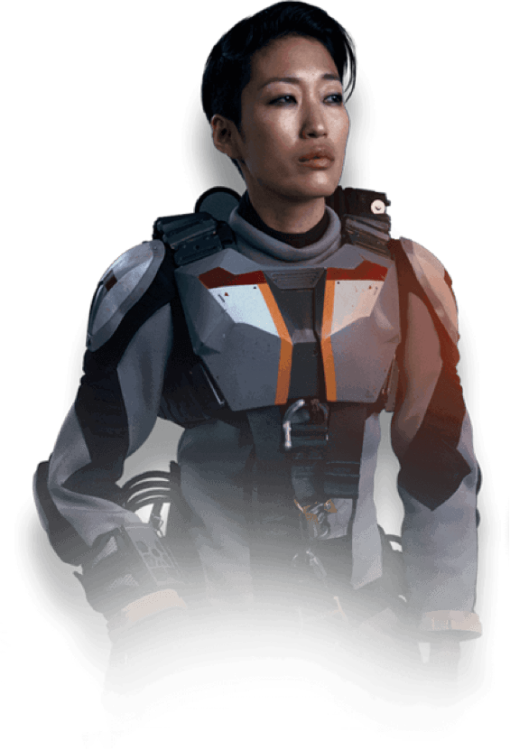
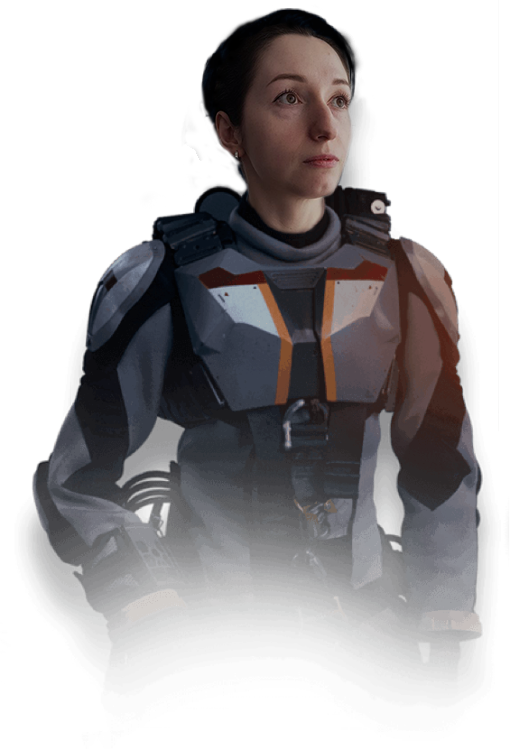
Fix fideo mobile view

diff --git a/src/components/PersonInfo/index.js b/src/components/PersonInfo/index.js
@@ -4,7 +4,7 @@ import { Link } from 'react-router-dom';
 import { team } from '../../team';
 // import RomanInfo from './RomanInfo';
 import styles from './index.module.scss';
-import video from '../../assets/video/alex.mp4'
+import video from '../../assets/video/alex.mp4';
 
 function PersonInfo() {
     const { params } = useRouteMatch();
@@ -12,6 +12,19 @@ function PersonInfo() {
     const member = team.find(member => member.id === id);
     const { name, surname, role, character, details } = member;
     const { height, weight, hair, eyes, other, indent, linkedin, github } = details;
+
+    const playVideo = ({target}) => {
+        target.play();
+    };
+
+    const pauseVideo = ({target}) => {
+        target.currentTime = 0;
+        target.pause();
+    };
+
+    const videoEnded = ({target}) => {
+        target.currentTime = 0;
+    };
 
     if (member.page) {
         return (
@@ -31,7 +44,10 @@ function PersonInfo() {
                         <div className={styles.imageWrapper}>
                             <div className={styles.bracketsTop}/> 
                             <div className={styles.image}>
-                                <video src={video}></video>
+                                <video src={video} className={styles.video}
+                                       onMouseEnter={playVideo}
+                                       onMouseLeave={pauseVideo}
+                                       onEnded={videoEnded}/>
                             </div>
                             <div className={styles.bracketsBottom}/> 
                         </div>
@@ -88,8 +104,7 @@ function PersonInfo() {
                     </div>
                 </div>
             </div>
-        
-         
+
      
             {member.name === 'Aleksandr' ? (
                 <p>Your additional component will be here</p>

diff --git a/src/components/PersonInfo/index.module.scss b/src/components/PersonInfo/index.module.scss
@@ -31,6 +31,9 @@
 .imageWrapper {
     flex: 0 0.35 35%;
     position: relative;
+    @media(max-width: 1200px) {
+        max-height: 500px;
+    }
     @media(max-width: 768px) {
         max-height: 350px;
     }
@@ -87,8 +90,12 @@
 .image {
     width: 100%;
     height: 100%;
-    background: grey;
+    overflow: hidden;
+    position: relative;
     @media(max-width: 460px) {
+        min-height: 350px;
+    }
+    @media(max-width: 320px) {
         min-height: 280px;
     }
 }
@@ -177,4 +184,10 @@
     color: $white;
     text-decoration: underline;
     margin-right: 30px; 
+}
+
+.video {
+    position: absolute;
+    width: 100%;
+    top: -10%;
 }
